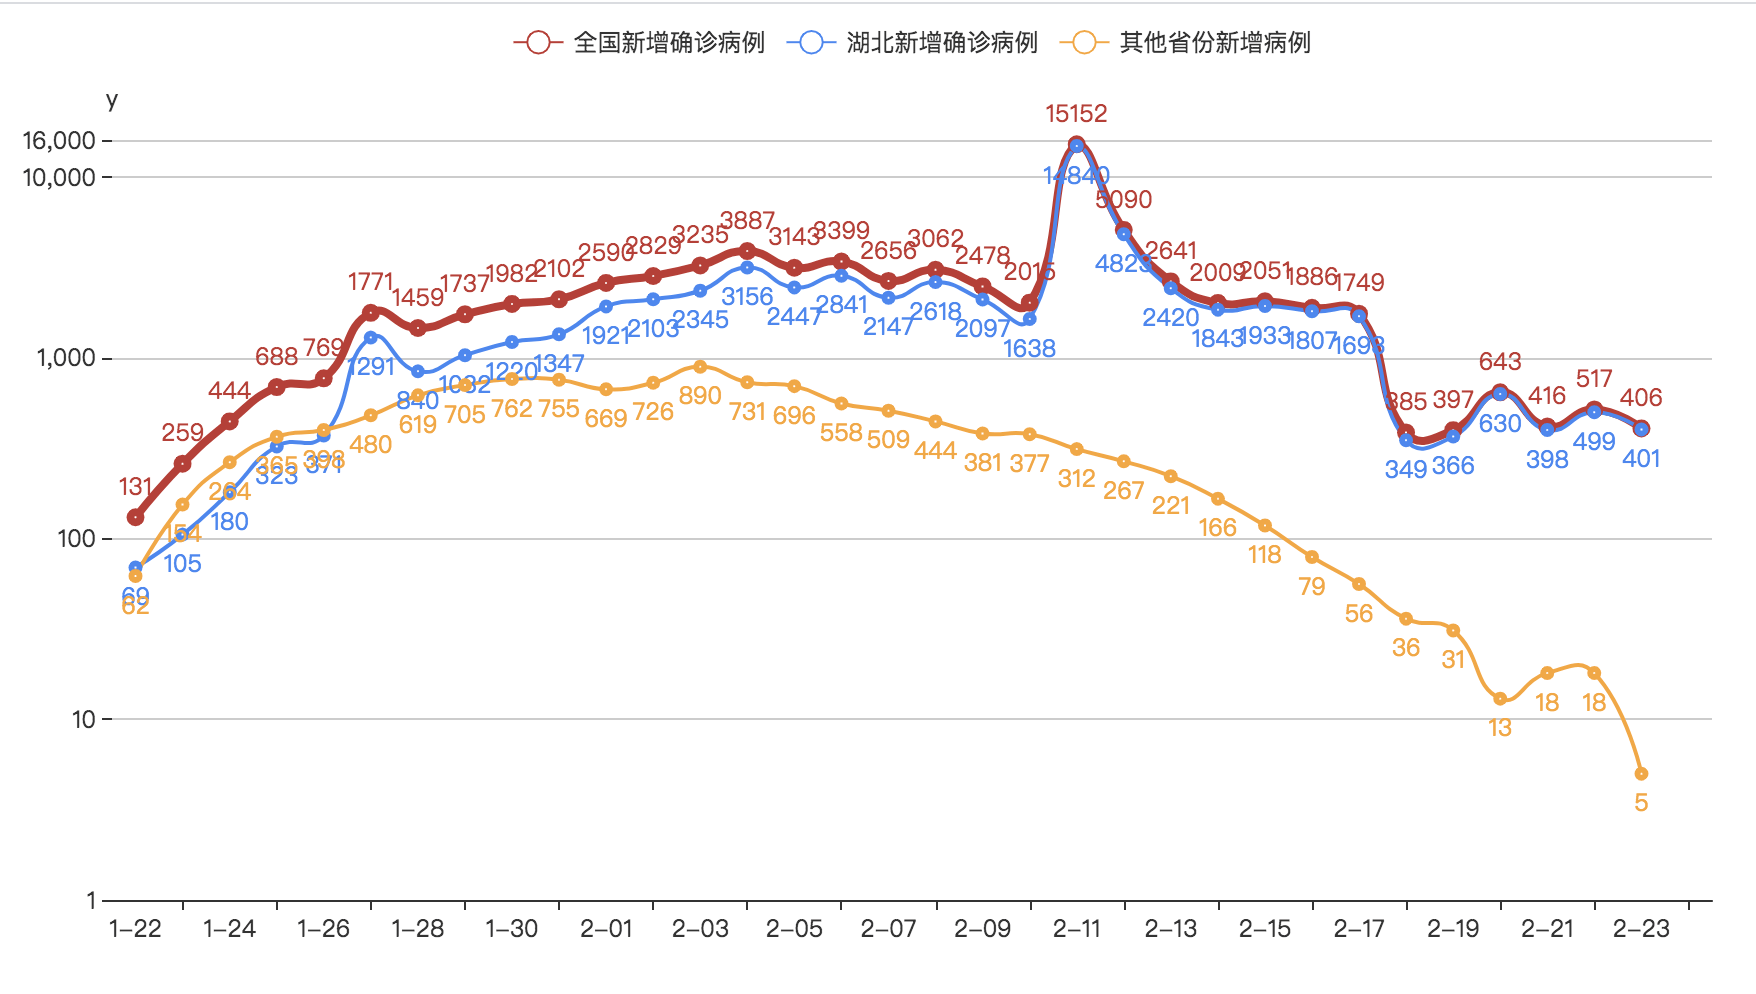
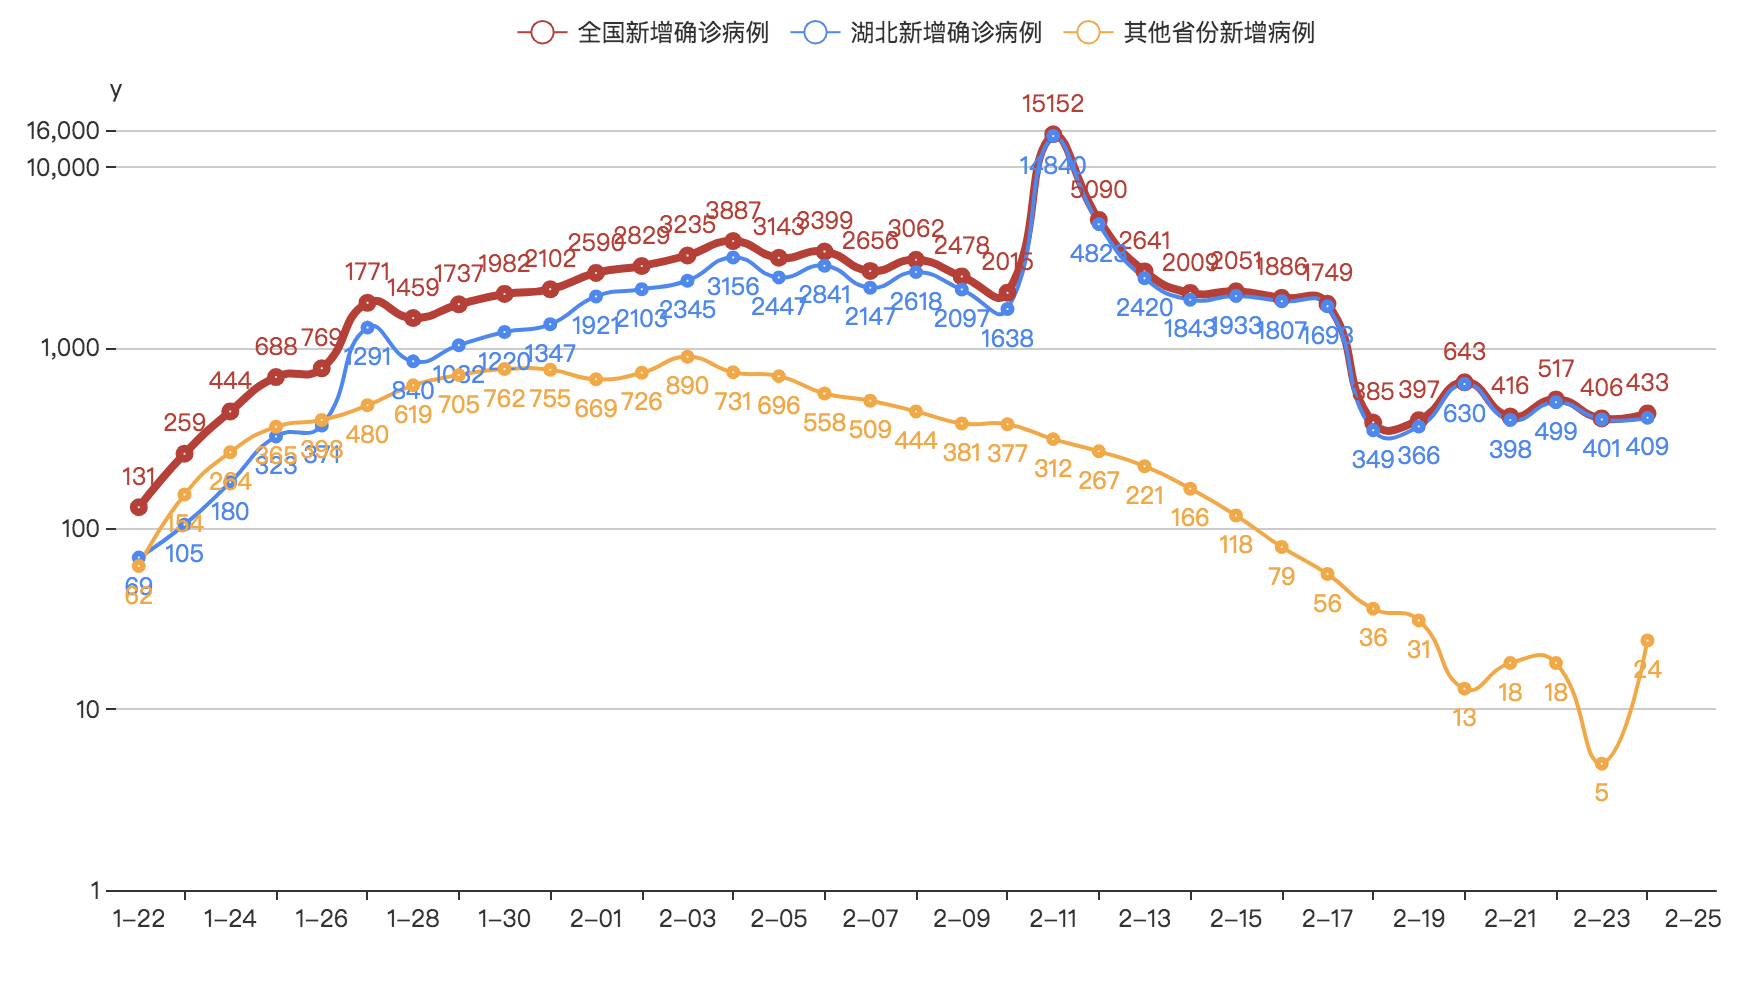
update result

diff --git a/main.py b/main.py
@@ -12,7 +12,8 @@ def get_province_data(month, day, province_name=None):
     file.close()
 
     if not province_name:
-        return json_array
+        sort_arr = [json_obj for json_obj in json_array]
+        return sorted(sort_arr, key= lambda x: x['confirmedCount'], reverse=True)
 
     for json_object in json_array:
         if json_object['provinceName'] == province_name:
@@ -97,9 +98,9 @@ def draw_tendency(month, day):
     dates = ['1-%d' % i for i in range(22, 31 + 1)]
     dates.extend(['2-%02d' % i for i in range(1, day)])
     v0 = [131, 259, 444, 688, 769, 1771, 1459, 1737, 1982, 2102, 2590, 2829, 3235, 3887, 3143, 3399, 2656, 3062, 2478,
-          2015, 15152, 5090, 2641, 2009, 2051, 1886, 1749, 385, 397, 643, 416, 517, 406]
+          2015, 15152, 5090, 2641, 2009, 2051, 1886, 1749, 385, 397, 643, 416, 517, 406, 433]
     v1 = [69, 105, 180, 323, 371, 1291, 840, 1032, 1220, 1347, 1921, 2103, 2345, 3156, 2447, 2841, 2147, 2618, 2097,
-          1638, 14840, 4823, 2420, 1843, 1933, 1807, 1693, 349, 366, 630, 398, 499, 401]
+          1638, 14840, 4823, 2420, 1843, 1933, 1807, 1693, 349, 366, 630, 398, 499, 401, 409]
     v2 = [v0[i] - v1[i] for i in range(len(v0))]
     print(v2)
     c = (
@@ -261,7 +262,7 @@ def draw_multiple_pie(month, day):
 
 
 if __name__ == '__main__':
-    m, d = 2, 25
+    m, d = 2, 26
     get_html(m, d)
     draw_tendency(m, d)
     draw_multiple_pie(m, d)

diff --git a/README.md b/README.md
@@ -29,6 +29,7 @@
 - 更新：2020.2.24 11:57 最近数据上报都变慢了，改成每天中午更新好了
 - 更新：2020.2.25 09:20
 - 更新：2020.2.26 10:56 今天除湖北省外，其他省份共新增5例，恍惚觉得疫情要结束了
+- 更新：2020.2.27 16:53
 
 # 全国/各省份疫情地图
 ![image](https://github.com/shadow12138/WuHanGanBaDei/blob/master/result/r1.png)
